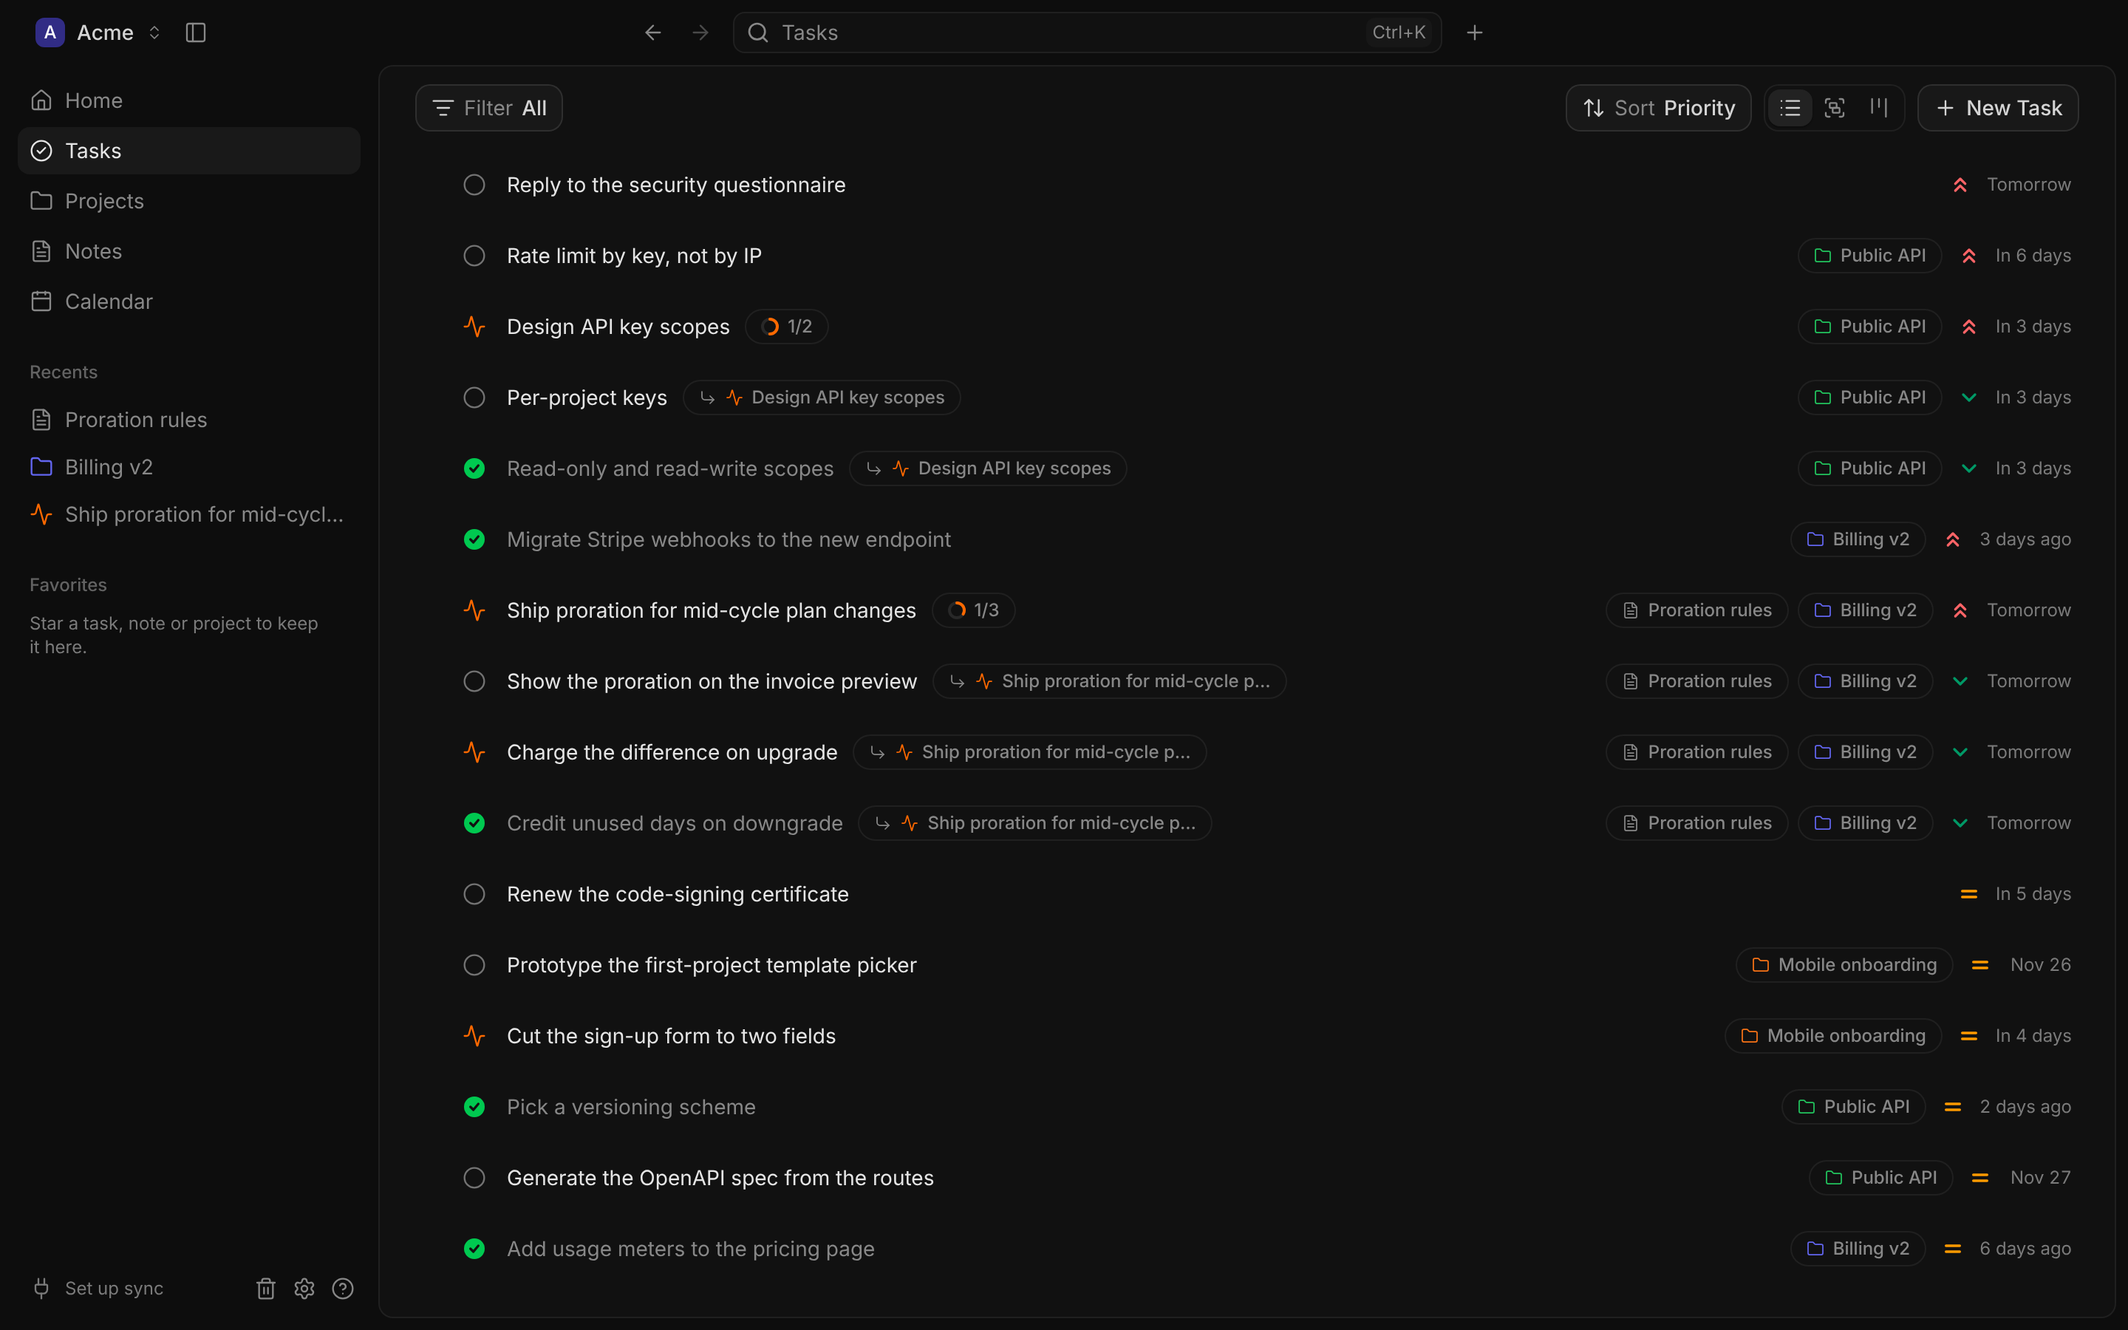
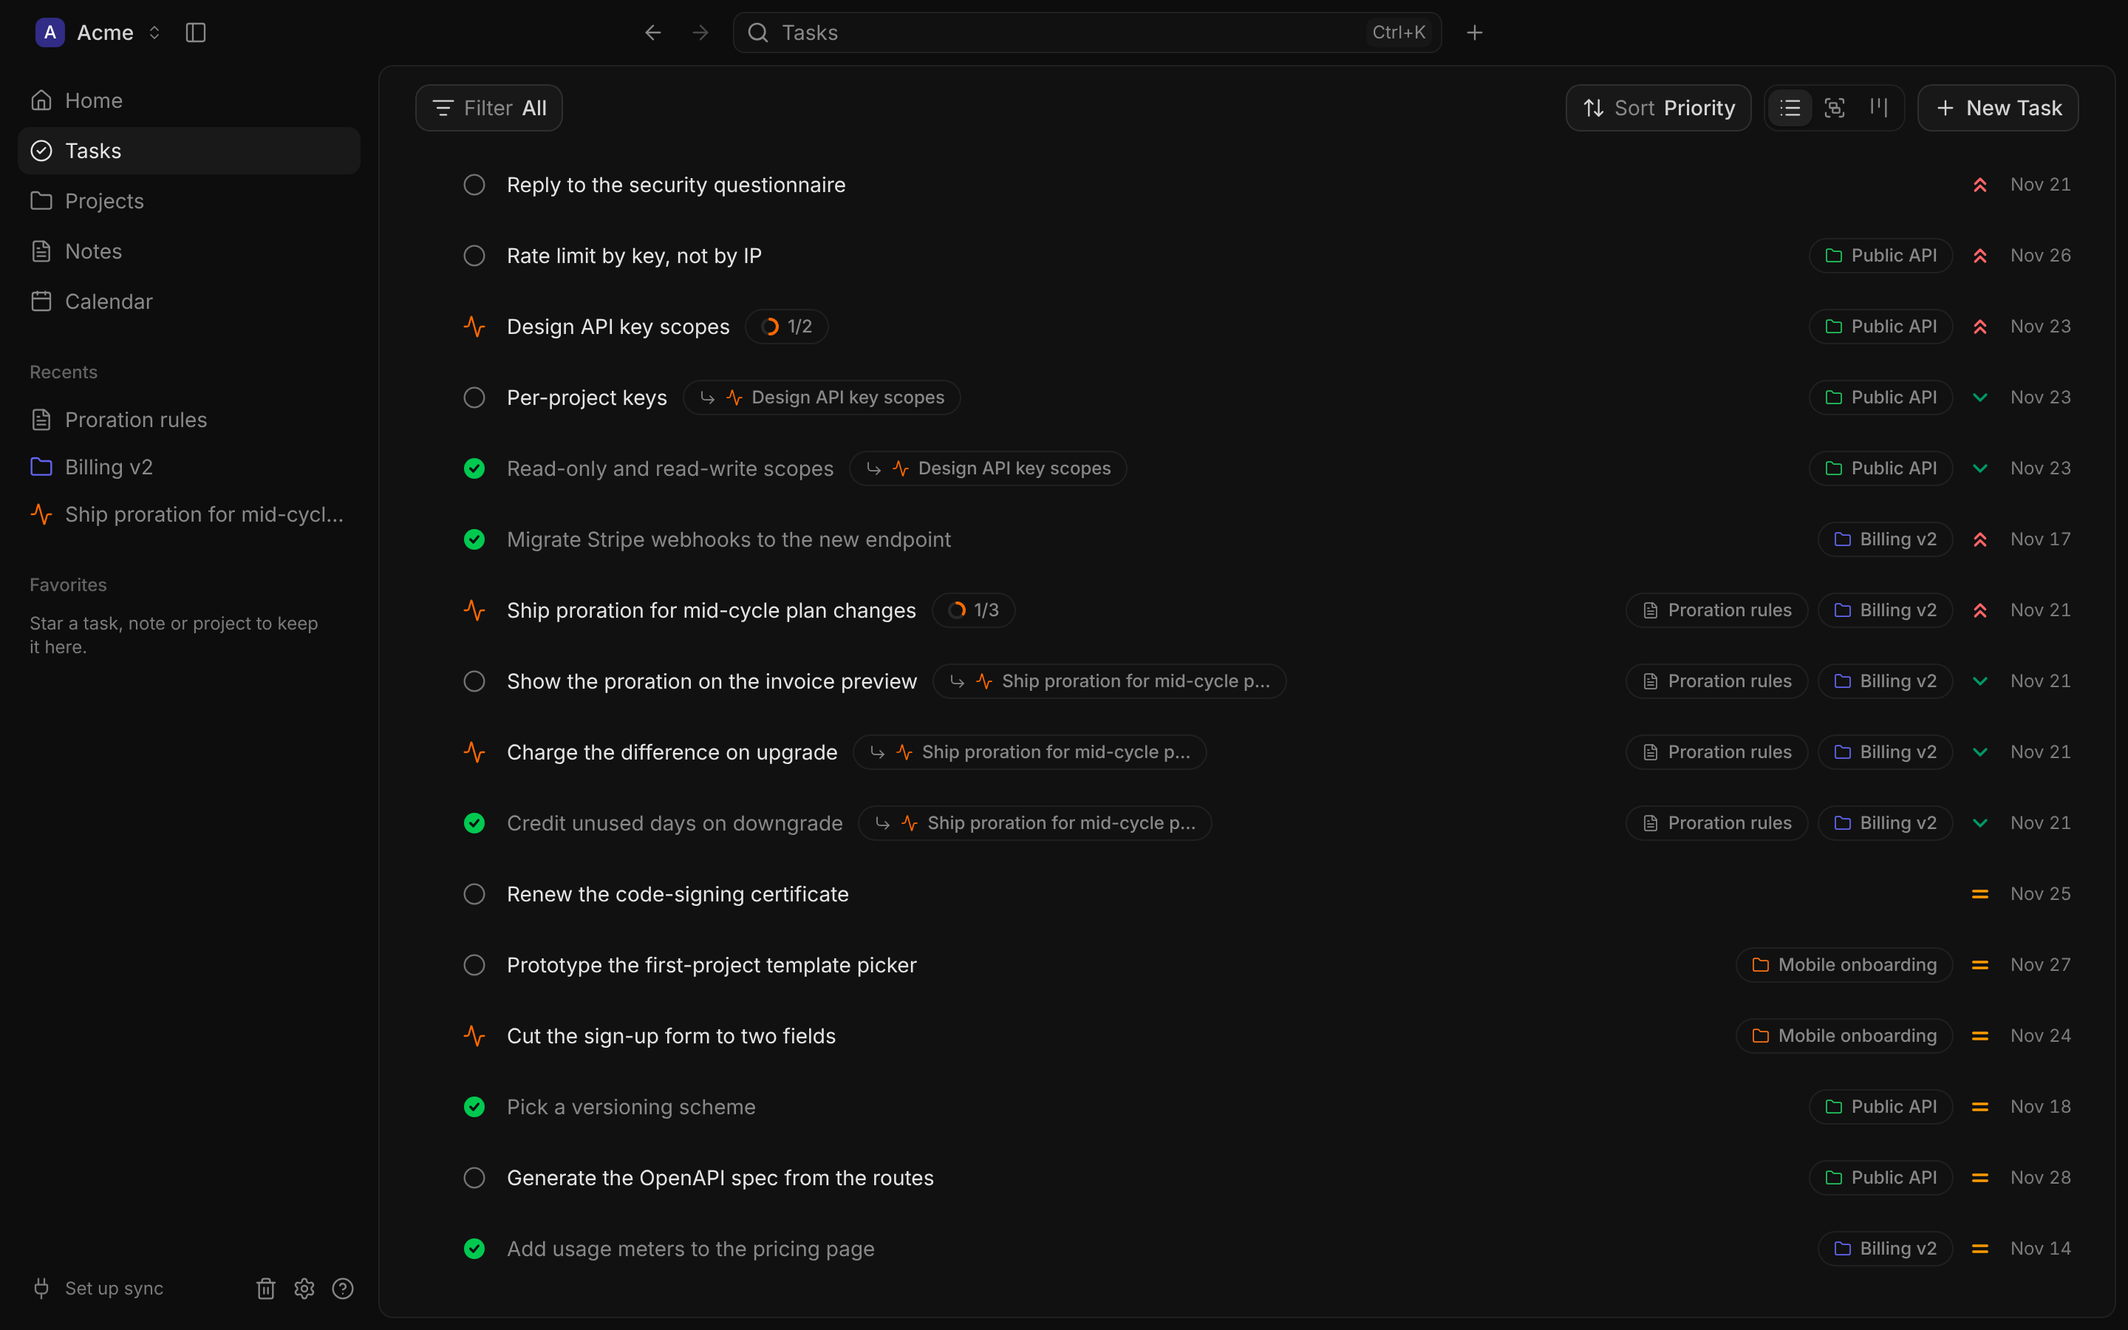
Show task due dates as dates, with tone for today and overdue
Task rows, linked task rows and board cards drop relative words
("Tomorrow", "In 3 days", "2 days ago") for the date itself ("Nov 20",
with the year outside this one). Every this-year date fits the 44px
slot, so dates and the priority icons line up down the list; whether a
task is due today or overdue is carried by the date's colour.

Claude-Session: https://claude.ai/code/session_01P34MGcTKNK2A8wbbAQ95BC

diff --git a/src/renderer/components/lists/TaskRow/TaskRow.tsx b/src/renderer/components/lists/TaskRow/TaskRow.tsx
@@ -315,7 +315,8 @@ function fromControl(event: MouseEvent<HTMLElement>): boolean {
  * One task in a strokeless list, drawn from core's `TaskListItem`: the status button (opening the
  * `StatusMenu`; the flag while the task is overdue and not started), the title, its key, parent
  * and subtask pills, then the linked event or note and the project, priority and the due date
- * ("Today", "Jul 1", from `useFormat()`) on the right. Use it inside `TaskList`, which handles
+ * (always the date, "Jul 1", from `useFormat()`'s `formatDate`; colour
+ * says when it is today or overdue) on the right. Use it inside `TaskList`, which handles
  * selection and focus.
  *
  * It binds no keys: the app's keymap opens its status menu (`menuOpen`), selects it (`onSelect`)
@@ -354,7 +355,7 @@ export const TaskRow = forwardRef<HTMLDivElement, TaskRowProps>(function TaskRow
     },
     [ref],
   );
-  const { now, formatDue } = useFormat();
+  const { now, formatDate } = useFormat();
   const key = task.external?.key;
   const subtasks = task.subtaskProgress;
   const leftPills = [key, task.parentTask, subtasks].filter(Boolean).length;
@@ -486,7 +487,7 @@ export const TaskRow = forwardRef<HTMLDivElement, TaskRowProps>(function TaskRow
           )}
         >
           {task.dueDate
-            ? formatDue(task.dueDate)
+            ? formatDate(task.dueDate)
             : onDueDateChange &&
               !isClosed(status) &&
               task.external?.state !== LinkState.SYNCED && (

diff --git a/src/renderer/components/board/BoardCard/BoardCard.tsx b/src/renderer/components/board/BoardCard/BoardCard.tsx
@@ -48,14 +48,14 @@ function fromControl(event: MouseEvent<HTMLElement>): boolean {
 /**
  * A task on the board, drawn from core's `TaskListItem`: the title, then its relations as the pills
  * a task row uses (the key, its subtasks, the linked event or note, the project), then priority and
- * the due date (worded and coloured from `useFormat()`, which moves once a day).
+ * the due date ("Jul 1" from `useFormat()`'s `formatDate`, coloured when due today or overdue,, which moves once a day).
  * A borderless filled card; focusable, so it opens on Enter as well as on click.
  */
 export const BoardCard = forwardRef<HTMLDivElement, BoardCardProps>(function BoardCard(
   { task, state, render, onClick, onDueDateChange, ...props },
   ref,
 ) {
-  const { now, formatDue } = useFormat();
+  const { now, formatDate } = useFormat();
   const done = task.status === TaskStatus.COMPLETED;
   const { external, subtaskProgress: subtasks } = task;
   const pills = [
@@ -96,7 +96,7 @@ export const BoardCard = forwardRef<HTMLDivElement, BoardCardProps>(function Boa
         <PriorityIcon priority={task.priority} />
         {task.dueDate ? (
           <span className={styles.date} data-tone={dueTone(task.status, task.dueDate, now)}>
-            {formatDue(task.dueDate)}
+            {formatDate(task.dueDate)}
           </span>
         ) : (
           settable &&

diff --git a/src/renderer/components/lists/LinkedTaskRow/LinkedTaskRow.tsx b/src/renderer/components/lists/LinkedTaskRow/LinkedTaskRow.tsx
@@ -32,13 +32,13 @@ export interface LinkedTaskRowProps extends Omit<ComponentPropsWithoutRef<'div'>
 /**
  * The compact 36px task row of a sheet's Subtasks and Linked tasks and a note's Linked tasks
  * panel: the status button (the flag while overdue and not started), the title, then the due date
- * ("Jun 24", "Today", coloured when due today or overdue). No checkbox and no pills.
+ * ("Jun 24", always the date, coloured when due today or overdue). No checkbox and no pills.
  */
 export const LinkedTaskRow = forwardRef<HTMLDivElement, LinkedTaskRowProps>(function LinkedTaskRow(
   { task, onStatusChange, onOpen, state, className, onKeyDown, ...props },
   ref,
 ) {
-  const { now, formatDue } = useFormat();
+  const { now, formatDate } = useFormat();
   // controlled when the owner listens for changes; otherwise the row keeps its own pick
   const [picked, setPicked] = useState<TaskStatus>(task.status);
   const shown = onStatusChange ? task.status : picked;
@@ -81,7 +81,7 @@ export const LinkedTaskRow = forwardRef<HTMLDivElement, LinkedTaskRowProps>(func
       <span className={styles.title}>{task.title}</span>
       {task.dueDate && (
         <span className={styles.date} data-tone={dueTone(shown, task.dueDate, now)}>
-          {formatDue(task.dueDate)}
+          {formatDate(task.dueDate)}
         </span>
       )}
     </div>

diff --git a/src/renderer/components/lib/format.tsx b/src/renderer/components/lib/format.tsx
@@ -32,7 +32,7 @@ export interface Format {
   formatRelative: (date: Date) => string;
   /** A time of day in the time format: "9:30 AM" or "09:30" */
   formatTime: (date: Date) => string;
-  /** A short date: "Jul 1" */
+  /** A short date: "Jul 1", with the year when it is not this year's ("Jan 3, 2027") */
   formatDate: (date: Date) => string;
 }
 
@@ -73,8 +73,14 @@ function capitalize(text: string): string {
 export function createFormat(now: Date, timeFormat: TimeFormat = '12'): Format {
   const base = DateTime.fromJSDate(now);
   const today = base.startOf('day');
-  const formatDate = (date: Date) =>
-    DateTime.fromJSDate(date).toLocaleString({ month: 'short', day: 'numeric' });
+  const formatDate = (date: Date) => {
+    const day = DateTime.fromJSDate(date);
+    return day.toLocaleString(
+      day.year === base.year
+        ? { month: 'short', day: 'numeric' }
+        : { month: 'short', day: 'numeric', year: 'numeric' },
+    );
+  };
   return {
     now,
     timeFormat,

diff --git a/e2e/flows/tasks.spec.ts b/e2e/flows/tasks.spec.ts
@@ -14,7 +14,11 @@ test('tasks: create, change status, edit, add a subtask, trash, undo, restore', 
   const main = window.getByRole('main');
   const row = taskRow(main, 'Write release notes');
   await expect(row).toContainText('Launch');
-  await expect(row).toContainText('Tomorrow');
+  const tomorrow = new Date();
+  tomorrow.setDate(tomorrow.getDate() + 1);
+  await expect(row).toContainText(
+    tomorrow.toLocaleDateString(undefined, { month: 'short', day: 'numeric' }),
+  );
 
   // change its status from the list
   await row.getByRole('button', { name: 'Status: Not started' }).click();

diff --git a/src/renderer/tests/components/format.test.ts b/src/renderer/tests/components/format.test.ts
@@ -26,6 +26,15 @@ describe('formatDue', () => {
   });
 });
 
+describe('formatDate', () => {
+  it('is always the date, with the year only outside this one', () => {
+    expect(format.formatDate(day(0))).toBe('Jun 22');
+    expect(format.formatDate(day(1))).toBe('Jun 23');
+    expect(format.formatDate(new Date(2027, 0, 3))).toBe('Jan 3, 2027');
+    expect(format.formatDate(new Date(2025, 11, 30))).toBe('Dec 30, 2025');
+  });
+});
+
 describe('formatTime', () => {
   it('follows the time format', () => {
     expect(createFormat(NOW, '12').formatTime(day(0, 13, 5))).toBe('1:05 PM');

diff --git a/docs/design-system/components/TaskRow.md b/docs/design-system/components/TaskRow.md
@@ -9,7 +9,7 @@ One task in a strokeless list: no line beneath, a `row-height` (48px) row with 8
   - on a subtask, its parent (`parentTask` as an `EntityPill` of type `parent`: corner arrow, status icon, parent title), left off in a task page's own Subtasks list, where the parent is the page;
   - on a parent task, the subtask count in a pill (`subtaskProgress`: `ProgressRing` and "3/4").
 - **When the row runs out of room,** the pills on each side stack like a deck (the last in full, the ones behind showing a 26px edge with their icon) and spread out on hover or focus, drawn over the end of the title on the row's own ground (never past the start of the title) so nothing in the row moves; the row keeps its height. Stacking and spreading animate in `duration-normal`: as the row narrows or widens, or a stack is pointed at, the pills behind grow or shrink between full width and their edge and their labels fade; a spread stack's ground fades in first (`duration-fast`). A row draws its first level still. The title shortens only after that. The row measures itself and stacks as far as it needs to (`stack="auto"`, the default); `stack="right"` stacks the pills after the title, and `stack="both"` also stacks the key with the subtask or parent pill; a side with one pill never stacks. In Figma this is TaskRow's `pills` variant (`spread`, `stacked right`, `stacked both`).
-- **Right side.** `EntityPill` chips (the task's one `link`, an event or a note, then the project with its folder icon in the project's colour, so the project is the pill a stack shows in full), `PriorityIcon`, and the due date from `useFormat().formatDue` ("Today", "Tomorrow", "In 3 days", "2 days ago", else "Jul 1"), 44px right-aligned. Its colour comes from the status and the date (`dueTone`): `date-overdue` for an open task due before today, `date-today` for one due today, else `subtle-foreground`; a closed task's date is never coloured.
+- **Right side.** `EntityPill` chips (the task's one `link`, an event or a note, then the project with its folder icon in the project's colour, so the project is the pill a stack shows in full), `PriorityIcon`, and the due date from `useFormat().formatDate`, always the date and never relative ("Jul 1", with the year when it is not this year's: "Jan 3, 2027"), 44px right-aligned with tabular numbers so the dates line up down the list, as Linear's do. Whether it is today or overdue is said by its colour, not its words: the colour comes from the status and the date (`dueTone`): `date-overdue` for an open task due before today, `date-today` for one due today, else `subtle-foreground`; a closed task's date is never coloured.
 - **No due date.** An undated task's 44px date slot is blank at rest, so a list of undated tasks stays quiet; the sort puts them last by due date. With `onDueDateChange`, the slot shows a `SetDueDateButton` (a quiet 24px calendar-plus and "Due", named "Set due date", opening the `DatePicker`) while the row is pointed at or focused, and keeps it while the picker is open. The button is drawn over the slot's end rather than in it, so an undated row's priority and pills stay in line with a dated row's. A closed or synced task never shows it: there is nothing to date, or the provider owns the date. The sheet, the task page and the create dialog show an unset due date as a "Due date" pill instead, as every unset property is.
 - **Anatomy.** The 24px status slot starts 36px from the row's outer edge; the checkbox sits 9px from it. 10px between the status, the title and the right side; 8px between the right side's parts.
 - **States.** Rest; hover (`row-selected`, the same tint as selected); selected (`row-selected`, title in `row-selected-foreground`; neighbouring selected rows join into one block); keyboard focus (the hover tint with a 1px `ring` outline around the whole row, no halo, as Figma draws it); completed (title in `muted-foreground`, not struck through; the priority still shows); overdue, worked out from the status, the due date and `now` (`isOverdue`): `date-overdue`, and the flag in place of the status icon only while the task is not started (an overdue task in progress keeps its in-progress circle); subtask (indented under its parent).

diff --git a/docs/design-system/components/BoardCard.md b/docs/design-system/components/BoardCard.md
@@ -4,7 +4,7 @@ A task on the board, carrying the same pills as its task row so a task reads the
 
 - **Title** first, 14px `foreground-strong`, wrapping.
 - **Pills** under it, 4px apart, wrapping onto further lines: the synced task's `SourcePill`, the subtask count (`ProgressRing`, as in rows), the task's `link` (an event, as an `EntityPill` with its calendar's bar, or a note), then the project (its folder in the project's colour). All 24px. A name too long for the card ellipsises inside it. A task with no links has no pill line. The key, the link and the project open their `EntityHoverCard` after about 400ms of pointing, from the `PillHoverCardsProvider` around the page, as in a task row.
-- **Meta line** last: `PriorityIcon` on the left, the due date on the right, worded by `useFormat()`'s `formatDue` ("Today", "Tomorrow", "In 3 days" within a week, else "Jul 1") and coloured by `dueTone` from the status, the date and `now`: `date-today` for an open task due today, `date-overdue` for an overdue one. A completed task (`TaskStatus.COMPLETED`) keeps its priority, as every task does, so the line always shows.
+- **Meta line** last: `PriorityIcon` on the left, the due date on the right, from `useFormat()`'s `formatDate`, always the date ("Jul 1"; the year when not this year's), and coloured by `dueTone` from the status, the date and `now`: `date-today` for an open task due today, `date-overdue` for an overdue one. A completed task (`TaskStatus.COMPLETED`) keeps its priority, as every task does, so the line always shows.
 - **No due date.** An open card without one shows nothing in the date's place at rest. With `onDueDateChange`, a `SetDueDateButton` (a quiet calendar-plus and "Due", named "Set due date") takes the place while the card is pointed at or focused, and stays while its picker is open. A closed or synced card never shows it.
 - **Card:** borderless and filled (`card`; `neutral-100` in light, where a borderless card needs a step more to show on white), 12px padding, 8px between its lines, 10px corners. On hover it fills with `accent` (`neutral-800` in dark, Figma's `card-fill-hover`), with no outline: the fill alone shows it. Keyboard focus takes Nova's ring. Completed cards go darker with a dimmed title.
 - **Clicks:** a pill opens what it links to; a click anywhere else opens the task (`onClick` doesn't fire for clicks on the pills).

diff --git a/docs/design-system/components/LinkedTaskRow.md b/docs/design-system/components/LinkedTaskRow.md
@@ -1,6 +1,6 @@
 # LinkedTaskRow
 
-The compact task row of a sheet's Subtasks and Linked tasks and of a note's linked tasks: 36px, 8px in from the sides, 8px corners. The status icon (16px, in a 20px button that opens the `StatusMenu`; the flag while the task is overdue and not started), the title in 14px `foreground`, then the due date from `formatDue` ("Today", "In 3 days", "Jun 24") in 12px `subtle-foreground` (`date-today` when an open task is due today, `date-overdue` when it is overdue, from `dueTone`). No checkbox and no pills. Hover and keyboard focus fill it with `row-selected`, like the strokeless list rows; clicking the row or Enter opens the task. `state` draws hover or focus for pictures.
+The compact task row of a sheet's Subtasks and Linked tasks and of a note's linked tasks: 36px, 8px in from the sides, 8px corners. The status icon (16px, in a 20px button that opens the `StatusMenu`; the flag while the task is overdue and not started), the title in 14px `foreground`, then the due date from `formatDate`, always the date ("Jun 24"; the year when not this year's) in 12px `subtle-foreground` (`date-today` when an open task is due today, `date-overdue` when it is overdue, from `dueTone`). No checkbox and no pills. Hover and keyboard focus fill it with `row-selected`, like the strokeless list rows; clicking the row or Enter opens the task. `state` draws hover or focus for pictures.
 
 `task`: core's task as it is (`LinkedTaskRowData`, a `Pick<Task, 'title' | 'status' | 'dueDate'>`). With `onStatusChange` the status is controlled (`task.status`); without it the row keeps its own pick.
 

diff --git a/docs/design-system/README.md b/docs/design-system/README.md
@@ -196,7 +196,7 @@ Two kinds of page, one rule each:
 - Buttons and menu items are verbs. Buttons use title case ("New Task", "Show in Finder"); menu items, headings and labels use sentence case ("Turn into", "Due date").
 - Name the platform's things as the platform does, with `usePlatformWords` (`components/lib/platform.ts`), as the menu bar does: "Show in Finder", "Show in Explorer" or "Show in File Manager"; "this Mac", "this PC" or "this computer". The designs are drawn for macOS.
 - Address the user as "you", without a name: "Good morning" / "**Sprint Planning** starts in 12 minutes. You have **6 tasks** today, and 2 are overdue."
-- Dates are short and worded through `useFormat()`: due dates "Today", "Tomorrow", "In 3 days" within a week, else "Jul 1"; times "10:30 AM" (or "10:30" on a 24 hour clock); edits and countdowns "2h ago", "In 12m".
+- Dates are short and worded through `useFormat()`: a task's due date in a list or on the board is always the date ("Jul 1", "Jan 3, 2027" in another year), with today and overdue in its colour; elsewhere (hover cards, pickers, Home) due dates read "Today", "Tomorrow", "In 3 days" within a week, else "Jul 1"; times "10:30 AM" (or "10:30" on a 24 hour clock); edits and countdowns "2h ago", "In 12m".
 - A destructive confirmation says what happens to linked items and how to undo it.
 - Empty values are invitations: "Add description…", "+ Add start date". No emoji.
 
